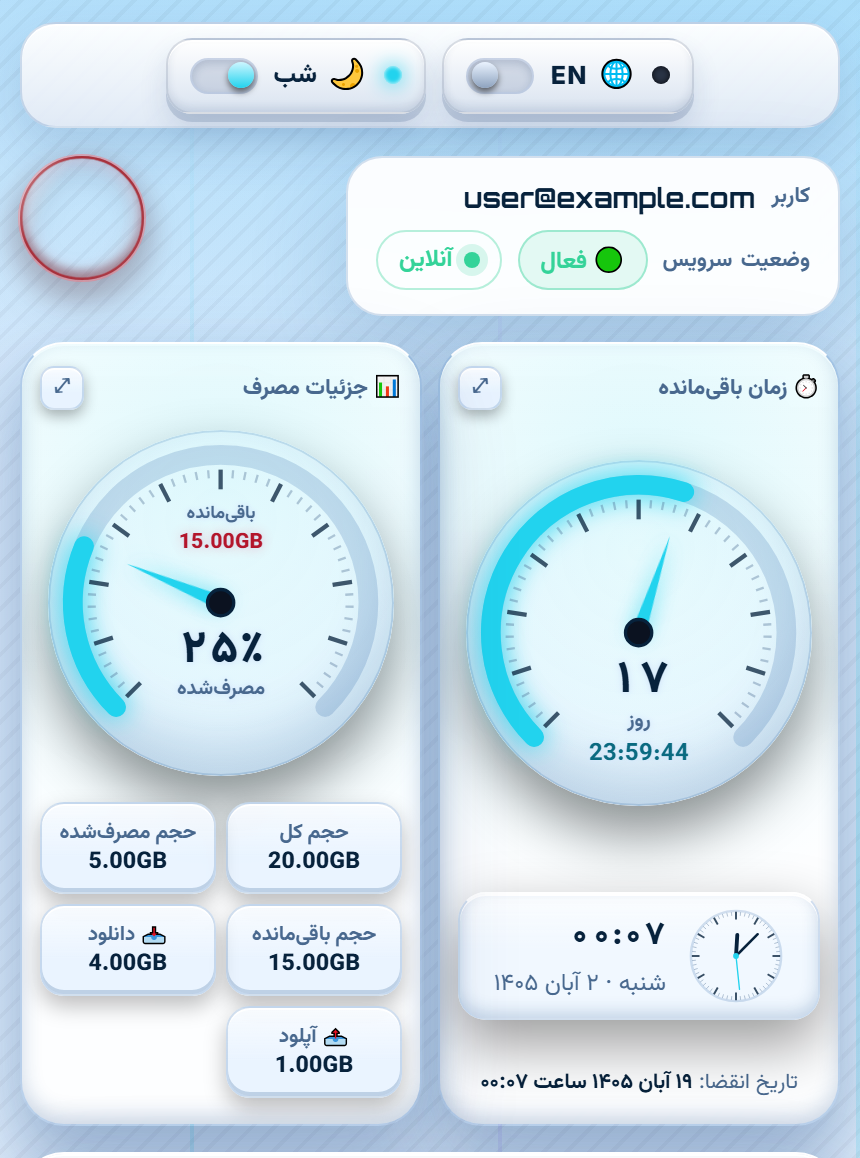
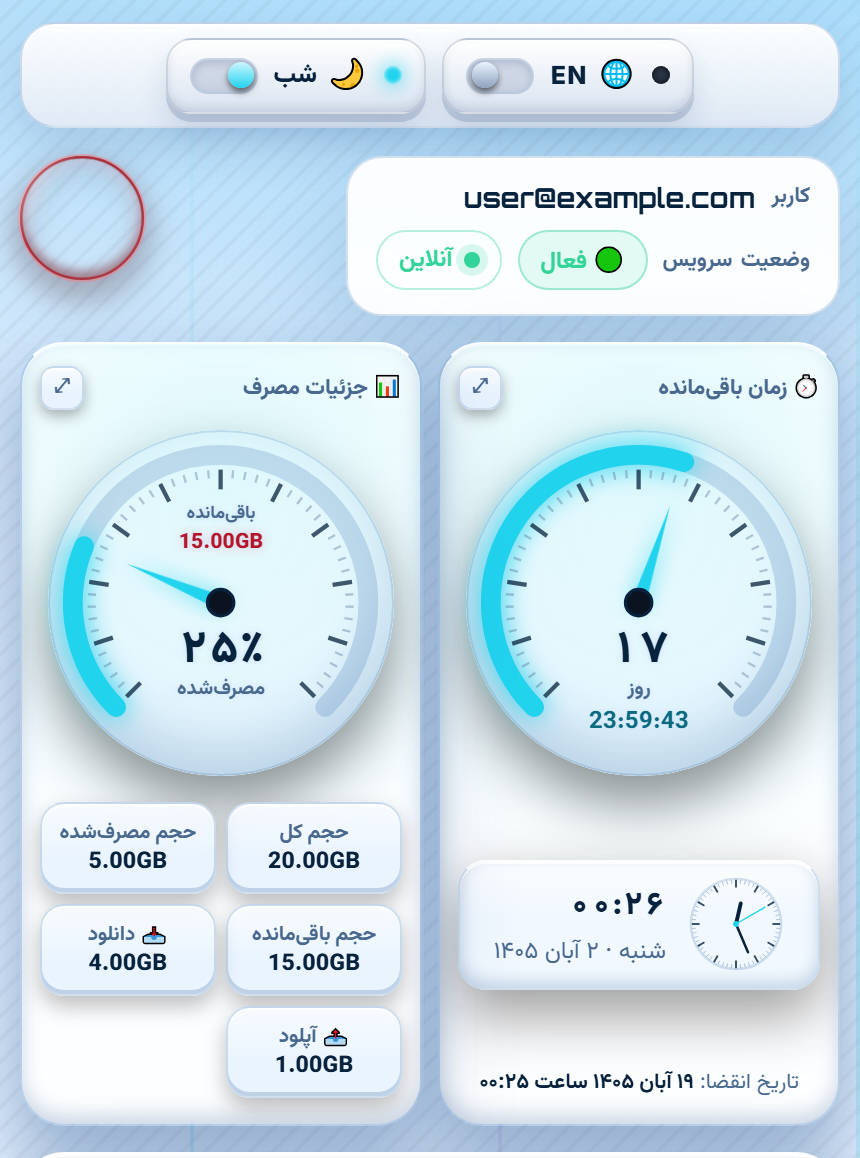
Speed, Electronics: put both dials on the same line
Each dial was centred in whatever space its card had left, and the two cards
carry different footers (speed adds the clock strip, electronics the usage
figures), so the instruments sat ~45px apart. Both dials now start at the top
of that space and the footers keep anchoring the card bottoms.

The speed wrap also pins its single grid track to the wrap width: the clock
strip's longest line widened the column at 320px, which pushed the dial out of
the card, so the strip steps its face and type down on a very narrow card.

🤖 Generated with Codebuff

Changed region(s): [[0.5442, 0.342, 0.9372, 0.7461], [0.514, 0.7461, 0.9674, 0.9637], [0.9372, 0.5285, 0.9674, 0.5596]]

diff --git a/pages/speed/index.html b/pages/speed/index.html
@@ -461,7 +461,13 @@
 
     /* the dial centres in the free space and the footer sticks to the bottom,
        so the two cards stay balanced at equal height */
-    .gauge-wrap { position: relative; display: grid; place-items: center; flex: 1 1 auto; }
+    /* the dial hugs the top of the free space instead of centring in it: the two
+       cards have different footers (the time card carries the clock strip), so
+       centring put one dial below the other — both now start on the same line */
+    /* the single track is pinned to the wrap width: without it the clock strip's
+       longest line widened the column and the dial spilled out of the card on a
+       320px screen */
+    .gauge-wrap { position: relative; display: grid; grid-template-columns: minmax(0, 1fr); place-items: start center; flex: 1 1 auto; }
 
     .gauge { position: relative; width: min(100%, 320px); aspect-ratio: 1 / 1; container: dial / size; }
     .gauge-card.zoomed .gauge { width: min(100%, 460px); }
@@ -611,6 +617,15 @@
         font-size: 0.68rem; text-align: start;
         border-top: none; padding-top: 0; margin-top: 0;
       }
+    }
+    /* a 320px phone leaves the card ~138px: the face and the digital clock no
+       longer fit on one row and the digits ran over the dial, so the face
+       shrinks and the type steps down */
+    @container gauge-card (max-width: 150px) {
+      .clock-badge { gap: 0.4rem; padding: 0.4rem 0.45rem; }
+      .clock-face { width: 34px; height: 34px; }
+      .clock-digital { font-size: 0.9rem; }
+      .clock-date { font-size: 0.66rem; }
     }
 
     /* zoomed gauge: clock off — the expiry date under the dial says it all */

diff --git a/pages/electronics/index.html b/pages/electronics/index.html
@@ -424,7 +424,10 @@
     }
     .gauge-card.zoomed .zoom-hint { transform: rotate(180deg); color: var(--accent); border-color: var(--accent); }
 
-    .gauge-wrap { position: relative; display: grid; place-items: center; flex: 1 1 auto; padding-top: 0.3rem; }
+    /* the dial hugs the top of the free space instead of centring in it: the two
+       cards have different footers, so centring put one dial ~45px below the
+       other — both instruments now start on the same line */
+    .gauge-wrap { position: relative; display: grid; place-items: start center; flex: 1 1 auto; padding-top: 0.3rem; }
     .meter { position: relative; width: min(100%, 340px); container: meter / inline-size; }
     .gauge-card.zoomed .meter { width: min(100%, 470px); }
     .meter-svg { display: block; width: 100%; height: auto; overflow: visible; }
